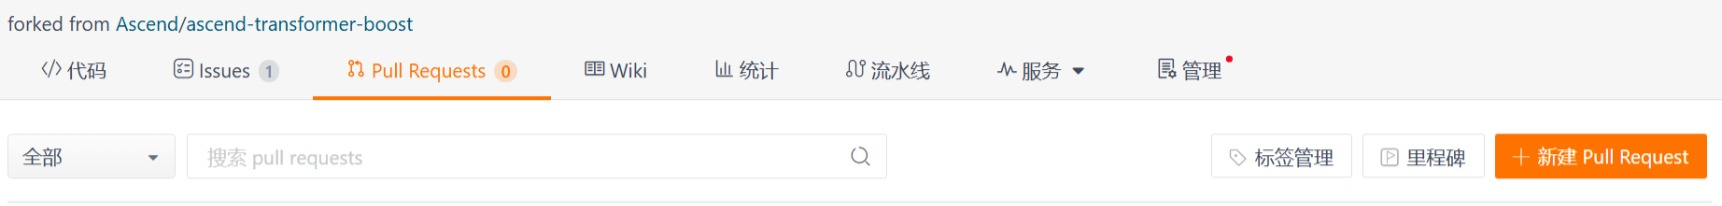
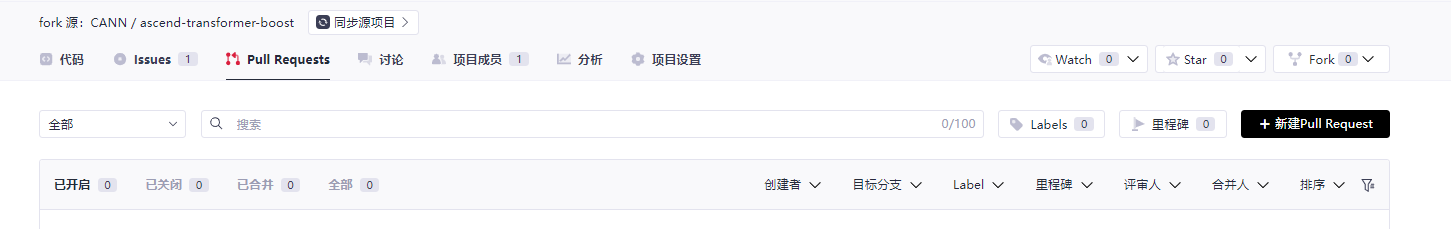
update gitee to gitcode

diff --git a/docs/contributors/gitcode-workflow.md b/docs/contributors/gitcode-workflow.md
@@ -1,9 +1,9 @@
-# Gitee 工作流说明
+# Gitcode 工作流说明
 
 ### 1. 开展工作流前的准备
 
 - 安装Git：请先确保您的电脑上已经安装了Git软件。如您需了解GIt，可以在Google、baidu或其他搜索引擎上求助相关内容。
-- 在开展Gitee的工作流之前，您需要先在Ascend的代码托管平台的上找到[ATB](https://gitee.com/ascend/ascend-transformer-boost)仓库。
+- 在开展Gitcode的工作流之前，您需要先在Ascend的代码托管平台的上找到[ATB](https://gitcode.com/cann/ascend-transformer-boost)仓库。
 
 ### 2. 准备本地代码
 
@@ -12,7 +12,7 @@
 1)  找到并打开对应的开放项目的首页
 2)  点击右上角的 `Fork` 按钮，按照指引，建立一个属于"**个人**"的云上fork分支。
 
-  ![gitee-fork](../images/gitee-fork.png)   
+  ![gitcode-fork](../images/gitcode-fork.png)   
 
 #### 2.2 把fork分支克隆到本地
 
@@ -28,10 +28,10 @@ mkdir ${your_working_dir}
 
 2）**完成git上用户名和邮箱的全局配置**（如果您之前已经完成过此项配置，请忽略）
 
-把git上的 `user` 设置成您gitee的个人名称：
+把git上的 `user` 设置成您gitcode的个人名称：
 
 ```
-git config --global user.name "your Gitee Name"
+git config --global user.name "your Gitcode Name"
 ```
 
 配置您的git邮箱
@@ -49,23 +49,23 @@ git config --global user.email "email@your_email.com"
   cat ~/.ssh/id_rsa.pub
   ```
 
-- ② 登录您个人的远程仓库网站Gitee账户并添加您的SSH公钥
+- ② 登录您个人的远程仓库网站Gitcode账户并添加您的SSH公钥
 
 
-- ② 登录您个人的远程仓库网站Gitee账户并添加您的ssh公钥
+- ② 登录您个人的远程仓库网站Gitcode账户并添加您的ssh公钥
 
-  请在Gitee网页点击右上角的“个人头像”进入个人Gitee账户，并点击个人头像下的“个人设置”，进入个人设置页面。在“个人设置->安全设置”下，点击“SSH公钥”，在“添加公钥”内把cat命令获取到的ssh公钥添加进去。
+  请在Gitcode网页点击右上角的“个人头像”进入个人Gitcode账户，并点击个人头像下的“个人设置”，进入个人设置页面。在“个人设置->安全设置”下，点击“SSH公钥”，在“添加公钥”内把cat命令获取到的ssh公钥添加进去。
 
-  ![gitee-ssh](https://obs-book.obs.cn-east-2.myhuaweicloud.com/cann-ops/images/gitee-ssh.png)
+  ![gitcode-ssh](../images/gitcode-ssh.png)
 
-  在个人电脑上完成gitee在SSH上的注册
+  在个人电脑上完成gitcode在SSH上的注册
 
   ```
-  ssh -T git@gitee.com
+  ssh -T git@gitcode.com
   ```
 
   如果获得如下“成功”提示，则表示 SSH 公钥已经生效：  
-  `Hi $user_name! You've successfully authenticated, but GITEE.COM does not provide shell access.`
+  `Hi $user_name! You've successfully authenticated, but GITCODE.COM does not provide shell access.`
 
 4）**复制远程仓库到本地**
 
@@ -77,17 +77,17 @@ git config --global user.email "email@your_email.com"
   
 - ② **复制远程仓库到本地**
 
-  - 您可以在需要下载的远程仓库首页，单击“克隆/下载”，得到`$remote_link`：
+  - 您可以在需要下载的远程仓库首页，单击“克隆/下载”，得到`$remote_link`（您需要创建令牌并输入以替代密码登录）：
 
-    ![gitee-clone](../images/gitee-clone.png)
+    ![gitcode-clone](../images/gitcode-clone.png)
 
   - 在本地电脑执行如下命令：
 
     ```
     # 下载远程仓库到本地
-    git clone https://gitee.com/$user_name/ascend-transformer-boost.git
+    git clone https://gitcode.com/$user_name/ascend-transformer-boost.git
     # 设置本地工作目录的上游源（原始仓库）
-    git remote add upstream https://gitee.com/ascend/ascend-transformer-boost.git
+    git remote add upstream https://gitcode.com/cann/ascend-transformer-boost.git
     ```
 
 
@@ -144,15 +144,15 @@ git commit -m "提交内容描述"
 
 ### 6. 将变更推送到您的远端目录
 
-准备进行审查（或只是建立工作的异地备份）时，将分支推到您在`gitee.com`的fork分支:
+准备进行审查（或只是建立工作的异地备份）时，将分支推到您在`gitcode.com`的fork分支:
 
 ```
 git push -f origin myfeature
 ```
 
-### 7. 在Gitee上创建一个 pull request
+### 7. 在Gitcode上创建一个 pull request
 
-1. 访问您在 `https://gitee.com/$user/ascend-transformer-boost` 的页面，单击 `+Pull Request`。
+1. 访问您在 `https://gitcode.com/$user/ascend-transformer-boost` 的页面，单击 `+Pull Request`。
    
    ![新建PR](../images/create-pr.png)
 
@@ -190,7 +190,7 @@ git push -f origin myfeature
 
    您可以在PR列表内找到您提交的PR，并看到对该PR的评论和评审意见。
 
-   ![](https://obs-book.obs.cn-east-2.myhuaweicloud.com/cann-ops/images/pr-list.png)
+   ![](../images/pr-list.png)
 
 
 
@@ -200,7 +200,7 @@ git push -f origin myfeature
 
 如果您想回退提交，请采用下面的方式
 
-*如果您具有上游写访问权限*，请不要使用`Revert`Gitee UI中的按钮创建PR，因为Gitee会在主存储库而不是您的fork中创建PR分支。
+*如果您具有上游写访问权限*，请不要使用`Revert`Gitcode UI中的按钮创建PR，因为Gitcode会在主存储库而不是您的fork中创建PR分支。
 
 - 创建一个分支并用upstream进行同步
 
@@ -243,7 +243,7 @@ git push ${your_remote_name} myrevert
 
 如果您发现提交的PR带有以下的标记，说明您提交的PR和您本地存在冲突，您需要处理冲突。
 
-![](https://obs-book.obs.cn-east-2.myhuaweicloud.com/cann-ops/images/gitee-conflict.png)
+![](../images/gitcode-conflict.png)
 
 1. 先将分支切换到master上，并完成master的rebase
 
@@ -298,4 +298,4 @@ git push ${your_remote_name} myrevert
    git push -f origin yourbranch
    ```
 
-5. 回到gitee上的PR提交页面查看，您就可以看到之前的提交已经合并了。
+5. 回到gitcode上的PR提交页面查看，您就可以看到之前的提交已经合并了。

diff --git a/docs/contributors/infra-faqs.md b/docs/contributors/infra-faqs.md
@@ -1,7 +1,7 @@
 
 #### 1.  **请问提交PR后出现ascend-cla/no红色标签，如何处理？**
 
-出现该标签表示该PR中所包含的commit中，有部分贡献者没有签署Ascend社区的贡献者协议(CLA)。[签署地址](https://clasign.osinfra.cn/sign/gitee_ascend-1720446461942705242)可以在PR评论区找到。如果是个人贡献者请选择“签署个人CLA”，如果是作为企业管理员参与贡献请选择“企业管理员”签署CLA。CLA检查是使用commit信息进行验证的。
+出现该标签表示该PR中所包含的commit中，有部分贡献者没有签署Ascend社区的贡献者协议(CLA)。[签署地址](https://clasign.osinfra.cn/sign/68cbd4a3dbabc050b436cdd4)可以在PR评论区找到。如果是个人贡献者请选择“签署个人CLA”，如果是作为企业管理员参与贡献请选择“企业管理员”签署CLA。CLA检查是使用commit信息进行验证的。
 
 <table>
 <tbody>
@@ -11,18 +11,18 @@
 <th>处理方案</th>
 </tr>
 <tr>
-<td>commit邮箱和Gitee提交邮箱一致</td>
+<td>commit邮箱和Gitcode提交邮箱一致</td>
 <td>统一用该邮箱</td>
 <td>使用该邮箱直接在上述“签署地址”签署CLA即可</td>
 </tr>
 <tr>
-<td rowspan="2">commit邮箱和Gitee提交邮箱不一致</td>
+<td rowspan="2">commit邮箱和Gitcode提交邮箱不一致</td>
 <td>希望使用commit邮箱签署</td>
-<td>调整Gitee提交邮箱为commit邮箱，在Gitee个人设置页面添加commit邮箱并设置为提交邮箱，然后在上述签署地址完成CLA签署即可</td>
+<td>调整Gitcode提交邮箱为commit邮箱，在Gitcode个人设置页面添加commit邮箱并设置为提交邮箱，然后在上述签署地址完成CLA签署即可</td>
 </tr>
 <tr>
-<td>希望使用gitee提交邮箱签署</td>
-<td>在git运行的本地通过 git config --global user.name **** 和 git config --global user.email ****修改配置可调整git的commit邮箱信息为gitee的提交邮箱，完成后再进入签署地址进行CLA签署</td>
+<td>希望使用gitcode提交邮箱签署</td>
+<td>在git运行的本地通过 git config --global user.name **** 和 git config --global user.email ****修改配置可调整git的commit邮箱信息为gitcode的提交邮箱，完成后再进入签署地址进行CLA签署</td>
 </tr>
 </tbody>
 </table>

diff --git a/docs/contributors/issue-submit.md b/docs/contributors/issue-submit.md
@@ -1,21 +1,21 @@
 # Issue提交指南
 
-CANN开放项目使用Gitee提供的Issue跟踪和管理系统用于记录每一个客户问题的处理全流程。
+CANN开放项目使用Gitcode提供的Issue跟踪和管理系统用于记录每一个客户问题的处理全流程。
 
 下面介绍Issue的基本操作。
 
 1. 新建Issue。
 
-   Gitee每一个源码仓都有Issue板块，在该板块中单击“新建Issue”，即可进入Issue类型选择界面。
+   Gitcode每一个源码仓都有Issue板块，在该板块中单击“新建Issue”，即可进入Issue类型选择界面。
    a. 单击“新建issue”。
-     ![](https://obs-book.obs.cn-east-2.myhuaweicloud.com/cann-ops/images/issue-banner.png)
+     ![](../images/issue-banner.png)
    b. 根据自身诉求，选择Issue类型，并单击“立即开始”。
-     ![](https://obs-book.obs.cn-east-2.myhuaweicloud.com/cann-ops/images/iusse_select.png)
+     ![](../images/issue_select.png)
   
 2. 填写Issue。
 
    在Issue填写界面中按照提示填写Issue相关信息，如下图所示：
-   ![](https://obs-book.obs.cn-east-2.myhuaweicloud.com/cann-ops/images/issue-details.png)
+   ![](../images/issue-details.png)
 
    a. 填写Issue标题。
 

diff --git a/docs/编译与构建.md b/docs/编译与构建.md
@@ -3,7 +3,7 @@
 ### 下载加速库源码
 
 ```shell
-git clone https://gitee.com/ascend/ascend-transformer-boost.git
+git clone https://gitcode.com/cann/ascend-transformer-boost.git
 ```
 
 您可自行选择需要的分支。
